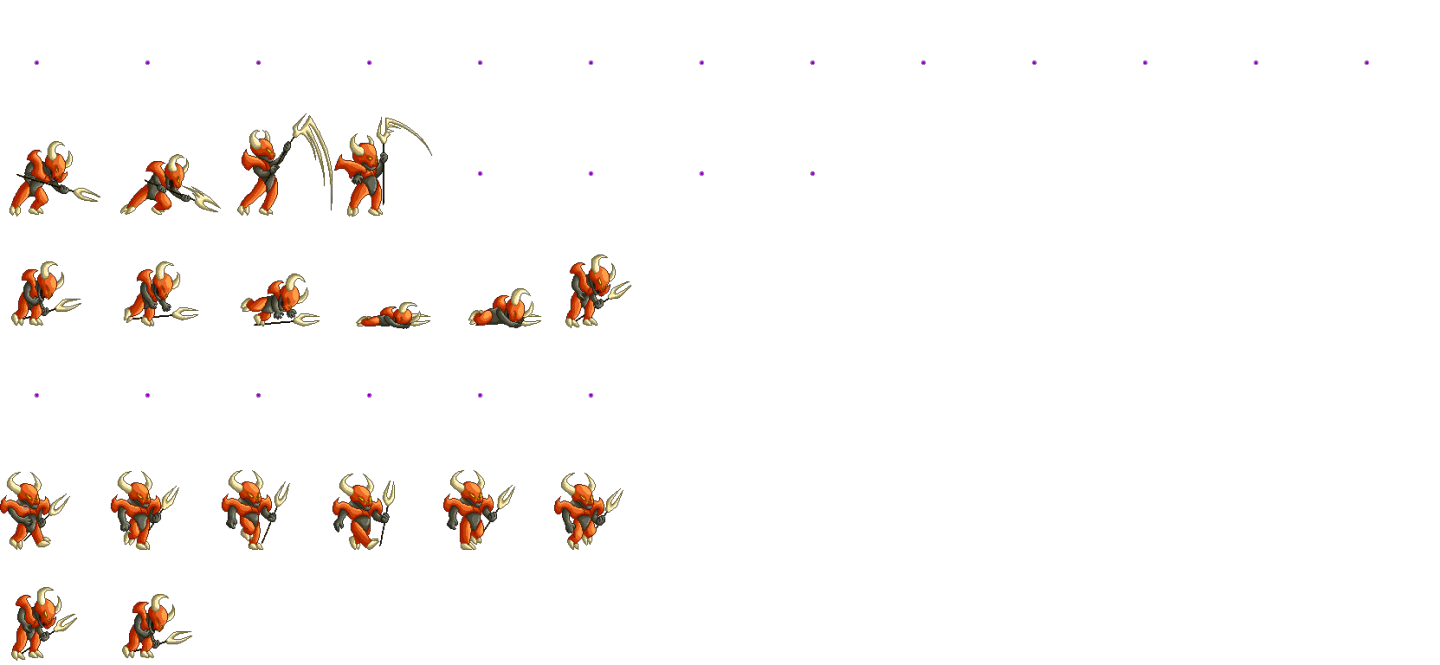
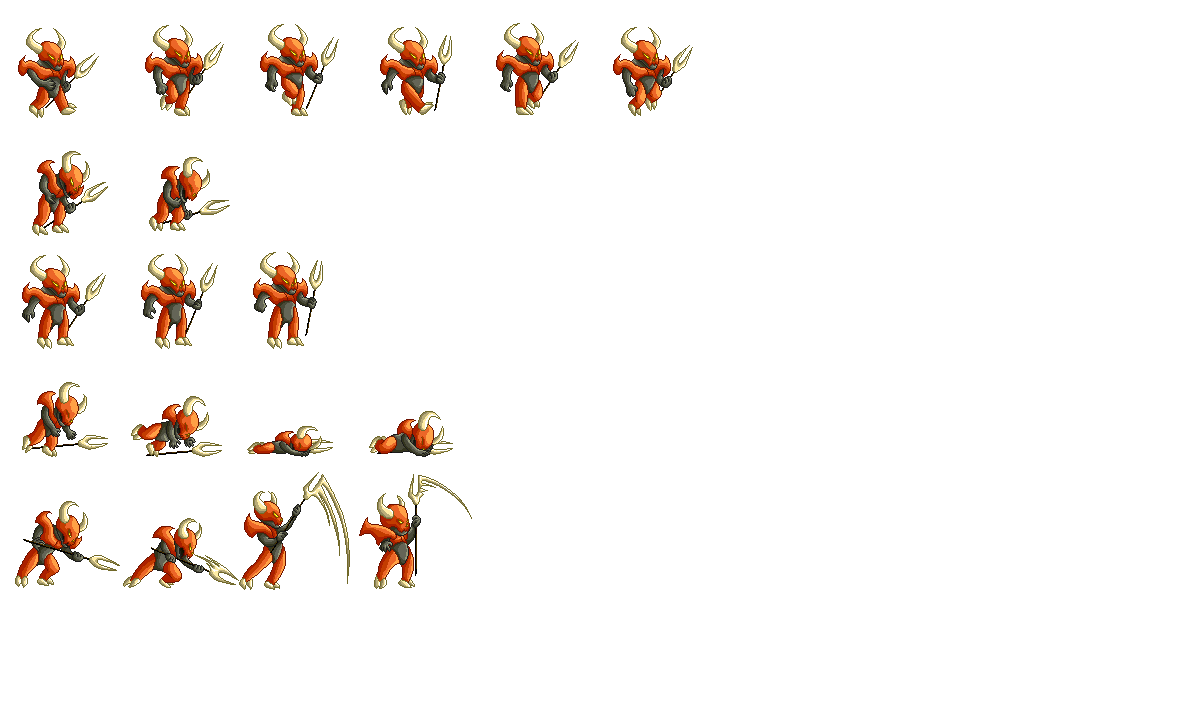
fixed animation for 4 characters in order to play

diff --git a/include/macros.h b/include/macros.h
@@ -138,10 +138,10 @@ enum ObjectEnums
 {
 	_cleric, _knight, _archer, _dummy, _select, _healBall , NUM_OF_OBJECTS
 };
-const std::string textures[NUM_OF_OBJECTS] = { "cleric1.png" , "knightSS.png", "witch.png" ,"walk.png", "select.png", "fireProj.png" };
+const std::string textures[NUM_OF_OBJECTS] = { "cleric1.png" , "knightSS.png", "witch.png" ,"Demon.png", "select.png", "fireProj.png" };
 
-const std::vector<std::vector<int>> CharacterRowLengths = { {14,7,10,7,6,4} ,{6,4,7,8,5,8},
-															{14,7,10,7,6,4} , {0,6,4,0,6,3 } };
+const std::vector<std::vector<int>> CharacterRowLengths = { {6,4,9,8,7,7} ,{6,4,7,8,5,8},
+															{6,4,9,8,7,7} , {6,2,3,4,4,0 } };
 
 const std::vector<std::vector<int>> EffectsSSLengths = { {5} };
 

diff --git a/src/Object.cpp b/src/Object.cpp
@@ -63,7 +63,7 @@ void Object::initSprite(const sf::Vector2f pos, const int index)
 	this->m_sprite.setTexture(*Resources::instance().getTexture(index));
 	sf::IntRect size = m_sprite.getTextureRect();
 	this->m_sprite.setScale(1.3, 1.3);
-	this->m_sprite.setOrigin(SPRITE_SIZE / 2, SPRITE_SIZE * 2);
+	this->m_sprite.setOrigin(SPRITE_SIZE / 1.5f, SPRITE_SIZE * 2);
 }
 
 //=======================================================================================

diff --git a/src/CharacterSrc/Character.cpp b/src/CharacterSrc/Character.cpp
@@ -127,7 +127,7 @@ bool Character::targetInRange()
 
 void Character::useBaseAttack()
 {
-	this->setAnimation(_specialAttack);
+	this->setAnimation(_attack);
 }
 
 //=======================================================================================
